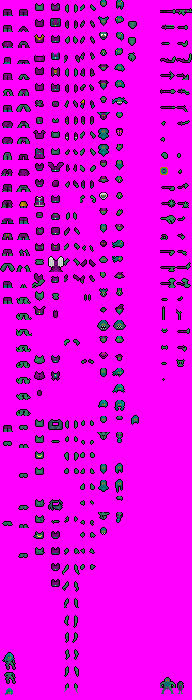
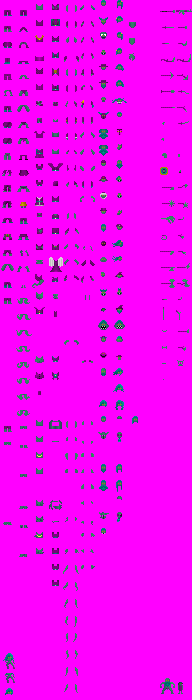
added command line option to toggle outlined graphics: --outlinedgfx

diff --git a/Main/Source/main.cpp b/Main/Source/main.cpp
@@ -67,10 +67,26 @@ int main(int argc, char** argv)
   signal(SIGQUIT, CrashHandler);
 #endif
 
+  if(argc > 1 && festring(argv[1]) == "--help")
+  {
+    std::cout << "--help        Show this help." << std::endl;
+    std::cout << "--version     Show version." << std::endl;
+    std::cout << "--outlinedgfx Some graphics will use their outlined option." << std::endl;
+    return 0;
+  }
+  
   if(argc > 1 && festring(argv[1]) == "--version")
   {
     std::cout << "Iter Vehemens ad Necem version " << IVAN_VERSION << std::endl;
     return 0;
+  }
+
+  for(int i=1;i<argc;i++)
+  {
+    if(festring(argv[i]) == "--outlinedgfx")
+    {
+      game::SetOutlinedGfx(true);
+    }
   }
 
 #ifdef __DJGPP__

diff --git a/Main/Include/game.h b/Main/Include/game.h
@@ -256,6 +256,8 @@ class game
   static int GetDirectionForVector(v2);
   static cchar* GetVerbalPlayerAlignment();
   static void CreateGods();
+  static void SetOutlinedGfx(truth b) { bOutlinedGfx = b; }
+  static truth IsOutlinedGfx() { return bOutlinedGfx; }
   static int GetScreenXSize() { return 42; }
   static int GetScreenYSize() { return 26; }
   static v2 CalculateScreenCoordinates(v2);
@@ -549,6 +551,7 @@ class game
   static truth PlayerHasReceivedAllGodsKnownBonus;
   static cbitmap* EnterImage;
   static v2 EnterTextDisplacement;
+  static truth bOutlinedGfx;
 };
 
 inline void game::CombineLights(col24& L1, col24 L2)

diff --git a/Main/Source/igraph.cpp b/Main/Source/igraph.cpp
@@ -60,6 +60,12 @@ int igraph::CurrentColorType = -1;
 
 void igraph::Init()
 {
+	if(game::IsOutlinedGfx()){
+		RawGraphicFileName[GR_ITEM]="Graphics/Item-outlined.png";
+		RawGraphicFileName[GR_CHARACTER]="Graphics/Char-outlined.png";
+		RawGraphicFileName[GR_HUMANOID]="Graphics/Humanoid-outlined.png";
+	}
+  
   static truth AlreadyInstalled = false;
 
   if(!AlreadyInstalled)

diff --git a/Main/Source/game.cpp b/Main/Source/game.cpp
@@ -111,6 +111,7 @@ int game::LastAttributeChangeTick[ATTRIBUTES];
 int game::NecroCounter;
 int game::CursorData;
 truth game::CausePanicFlag;
+truth game::bOutlinedGfx;
 
 truth game::Loading = false;
 truth game::JumpToPlayerBe = false;
